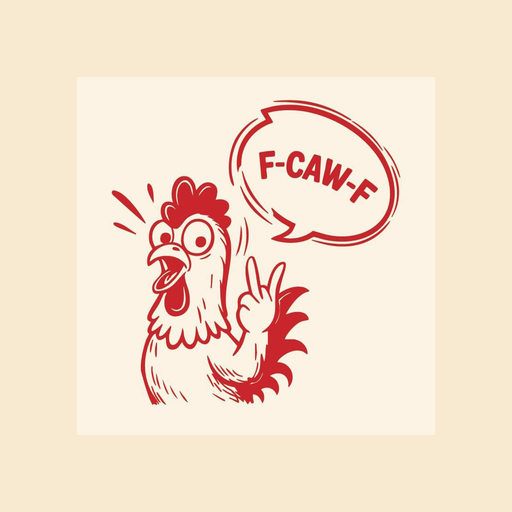
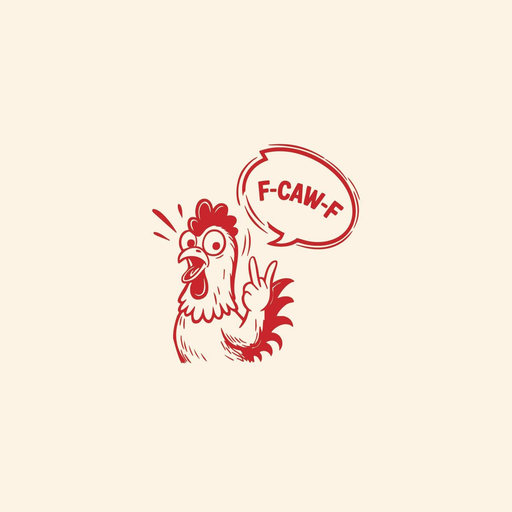
fix: admin auth guard bypass, POS billing time, inventory delete, thermal print race
- Dashboard/Login: isAdmin was hardcoded true (demo bypass) instead of
  checking actual admin auth state; fixes unauthorized access to admin-only UI
- Dashboard/Login: order history tab wasn't refetching on tab switch
- Pos: add optional billing time alongside billing date for backdated bills
- Pos: restyle Save as Deposit Order / Complete Sale button colors
- Inventory: add delete-product action to the table row, restyle adjust/history buttons
- thermalPrint: wait for the receipt logo image to finish loading before
  printing instead of a fixed 250ms delay, which raced the image decode
- Add migration fixing set-returning function in WHERE clause error when
  completing advance orders
- Update .env.example with current admin/staff demo credentials
- Update rebranded PWA icons/logo assets

Changed region(s): [[0.2188, 0.1875, 0.7812, 0.8125]]

diff --git a/src/pages/Pos.tsx b/src/pages/Pos.tsx
@@ -140,6 +140,7 @@ export default function Pos(props: PosProps = {}) {
   const [remarks, setRemarks] = useState('')
   const [referenceNumber, setReferenceNumber] = useState('')
   const [billingDate, setBillingDate] = useState('') // '' = use current date/time
+  const [billingTime, setBillingTime] = useState('') // '' = midnight when a date is set, else current time
   const [paymentType, setPaymentType] = useState<string>('Cash')
   const [saving, setSaving] = useState(false)
   const [shipping, setShipping] = useState<string>('0')
@@ -386,6 +387,7 @@ export default function Pos(props: PosProps = {}) {
     setRemarks('')
     setReferenceNumber('')
     setBillingDate('')
+    setBillingTime('')
     setBillGstEnabled(false)
     setGstInput('')
     setGstType('percent')
@@ -559,7 +561,7 @@ export default function Pos(props: PosProps = {}) {
       // This guarantees the correct client-computed values are always saved.
       // Determine the effective billing date/time
       const effectiveBillingDate = billingDate.trim()
-        ? new Date(billingDate).toISOString()
+        ? new Date(`${billingDate}T${billingTime.trim() || '00:00'}`).toISOString()
         : new Date().toISOString()
       await supabase.from('orders').update({
         subtotal,
@@ -579,7 +581,7 @@ export default function Pos(props: PosProps = {}) {
         id: created.orderId,
         invoiceNo: created.invoiceNo,
         orderType: getOrderType(),
-        date: billingDate.trim() ? new Date(billingDate).toISOString() : created.createdAt,
+        date: billingDate.trim() ? new Date(`${billingDate}T${billingTime.trim() || '00:00'}`).toISOString() : created.createdAt,
         items: [...items],
         subtotal,
         shipping: Number(shipping || 0),
@@ -916,14 +918,23 @@ export default function Pos(props: PosProps = {}) {
                 />
               </div>
               <div>
-                <label className="block text-[10px] font-black text-[#374151] tracking-wider uppercase mb-1.5">Billing Date (Optional)</label>
-                <Input
-                  id="pos-billing-date"
-                  type="date"
-                  className="text-left"
-                  value={billingDate}
-                  onChange={e => setBillingDate(e.target.value)}
-                />
+                <label className="block text-[10px] font-black text-[#374151] tracking-wider uppercase mb-1.5">Billing Date &amp; Time (Optional)</label>
+                <div className="grid grid-cols-2 gap-2">
+                  <Input
+                    id="pos-billing-date"
+                    type="date"
+                    className="text-left"
+                    value={billingDate}
+                    onChange={e => setBillingDate(e.target.value)}
+                  />
+                  <Input
+                    id="pos-billing-time"
+                    type="time"
+                    className="text-left"
+                    value={billingTime}
+                    onChange={e => setBillingTime(e.target.value)}
+                  />
+                </div>
                 <p className="mt-1 text-[10px] text-gray-400 font-medium">Leave blank to use today's date &amp; time</p>
               </div>
             </div>
@@ -1333,7 +1344,7 @@ export default function Pos(props: PosProps = {}) {
                   variant="secondary"
                   onClick={openDepositOrder}
                   disabled={saving || items.length === 0}
-                  className="!border-violet-600 !bg-violet-50 !text-violet-700 hover:!bg-violet-100"
+                  className="!border-gray-300 !bg-white !text-gray-500 hover:!bg-gray-50"
                 >
                   Save as Deposit Order
                 </Button>
@@ -1342,6 +1353,7 @@ export default function Pos(props: PosProps = {}) {
                   variant="primary"
                   onClick={generateBill}
                   loading={saving}
+                  className="!border-emerald-600 !bg-emerald-600 !text-white hover:!bg-emerald-700"
                 >
                   Complete Sale
                 </Button>

diff --git a/src/pages/Inventory.tsx b/src/pages/Inventory.tsx
@@ -818,12 +818,16 @@ export default function Inventory() {
                         <td className="px-4 py-3 whitespace-nowrap">
                           <div className="flex items-center gap-1.5">
                             <button onClick={() => openAdjust(p)}
-                              className="flex items-center gap-1 bg-[#FFF8F2] text-[#D6402E] border border-[#FDDBB4] px-2.5 py-1.5 rounded-lg text-[11px] font-black hover:bg-orange-100">
-                              <RefreshCw size={11} /> Adjust
+                              className="flex items-center gap-1.5 bg-white text-[#374151] border border-gray-200 px-2.5 py-1.5 rounded-lg text-[11px] font-black hover:bg-gray-50">
+                              <SlidersHorizontal size={12} /> Adjust
                             </button>
                             <button onClick={() => void openHistory(p)} title="Stock history"
-                              className="p-1.5 bg-gray-50 text-gray-500 hover:text-[#D6402E] hover:bg-[#FFF8F2] rounded-lg border border-transparent hover:border-[#FDDBB4]">
+                              className="p-1.5 bg-white text-gray-500 hover:text-[#D6402E] rounded-full border border-gray-200 hover:border-[#FDDBB4]">
                               <History size={13} />
+                            </button>
+                            <button onClick={() => void handleDeleteProduct(p)} title="Delete product"
+                              className="p-1.5 bg-white text-red-400 hover:text-red-600 rounded-full border border-gray-200 hover:border-red-200">
+                              <Trash2 size={13} />
                             </button>
                           </div>
                         </td>

diff --git a/src/pages/Login.tsx b/src/pages/Login.tsx
@@ -168,6 +168,7 @@ export default function Dashboard() {
   const location = useLocation()
   const navigate = useNavigate()
   const role = useAdminAuthStore(state => state.role)
+  const adminLoggedIn = useAdminAuthStore(state => state.isLoggedIn)
   const [tab, setTab] = useState<TabKey>(() => {
     if (location.pathname === '/whatsapp-center') return 'whatsapp'
     if (location.pathname === '/pos-analytics' && role === 'admin') return 'pos_analytics'
@@ -249,7 +250,7 @@ export default function Dashboard() {
   const [userSearch, setUserSearch] = useState('')
   const [roleUpdating, setRoleUpdating] = useState<string | null>(null)
 
-  const isAdmin = true // bypassed for local demo
+  const isAdmin = adminLoggedIn && (role === 'admin' || role === 'staff')
   const l = (en: string, _ta?: string) => en
 
   const toErr = (err: unknown, fb: string) =>
@@ -968,6 +969,8 @@ export default function Dashboard() {
   useEffect(() => {
     if (tab === 'users') void loadUsers()
     if (tab === 'coupons') void loadCoupons()
+    // eslint-disable-next-line react-hooks/exhaustive-deps -- runSearch is redefined every render; only re-fetch when the tab itself changes to 'history'
+    if (tab === 'history') void runSearch()
   }, [tab, loadUsers, loadCoupons])
 
   const applyAnalyticsPreset = (preset: 'all' | 'today' | 'week' | 'month' | 'year' | 'custom') => {

diff --git a/src/pages/Dashboard.tsx b/src/pages/Dashboard.tsx
@@ -143,6 +143,7 @@ export default function Dashboard() {
   const location = useLocation()
   const navigate = useNavigate()
   const role = useAdminAuthStore(state => state.role)
+  const adminLoggedIn = useAdminAuthStore(state => state.isLoggedIn)
   const [tab, setTab] = useState<TabKey>(() => {
     if (location.pathname === '/whatsapp-center') return 'whatsapp'
     if (location.pathname === '/pos-analytics' && role === 'admin') return 'pos_analytics'
@@ -223,7 +224,7 @@ export default function Dashboard() {
     setAckedLowStockIds(prev => new Set([...prev, ...loginLowStockItems.map(i => i.id)]))
   }
 
-  const isAdmin = true // bypassed for local demo
+  const isAdmin = adminLoggedIn && (role === 'admin' || role === 'staff')
   const l = (en: string, _ta?: string) => en
 
   const handleTabClick = (tabKey: TabKey) => {
@@ -969,6 +970,8 @@ export default function Dashboard() {
   useEffect(() => {
     if (tab === 'users') void loadUsers()
     if (tab === 'coupons') void loadCoupons()
+    // eslint-disable-next-line react-hooks/exhaustive-deps -- runSearch is redefined every render; only re-fetch when the tab itself changes to 'history'
+    if (tab === 'history') void runSearch()
   }, [tab, loadUsers, loadCoupons])
 
   const applyAnalyticsPreset = (preset: 'all' | 'today' | 'week' | 'month' | 'year' | 'custom') => {

diff --git a/src/lib/thermalPrint.ts b/src/lib/thermalPrint.ts
@@ -176,8 +176,7 @@ export function printThermalReceipt(data: ThermalReceiptData) {
   doc.write(html)
   doc.close()
 
-  // Wait for resources to load
-  setTimeout(() => {
+  const runPrint = () => {
     iframe.contentWindow?.focus()
     iframe.contentWindow?.print()
 
@@ -185,5 +184,24 @@ export function printThermalReceipt(data: ThermalReceiptData) {
     setTimeout(() => {
       document.body.removeChild(iframe)
     }, 1000)
-  }, 250)
+  }
+
+  // Wait for the logo image to actually finish loading (it's larger than the
+  // rest of the receipt) before printing — a fixed short delay was racing
+  // against the image decode and printing a blank logo slot.
+  const logoImg = doc.querySelector('img')
+  if (logoImg && !logoImg.complete) {
+    let printed = false
+    const done = () => {
+      if (printed) return
+      printed = true
+      runPrint()
+    }
+    logoImg.addEventListener('load', done, { once: true })
+    logoImg.addEventListener('error', done, { once: true })
+    // Safety net in case neither event fires (e.g. offline with no cached image)
+    setTimeout(done, 1500)
+  } else {
+    setTimeout(runPrint, 250)
+  }
 }
